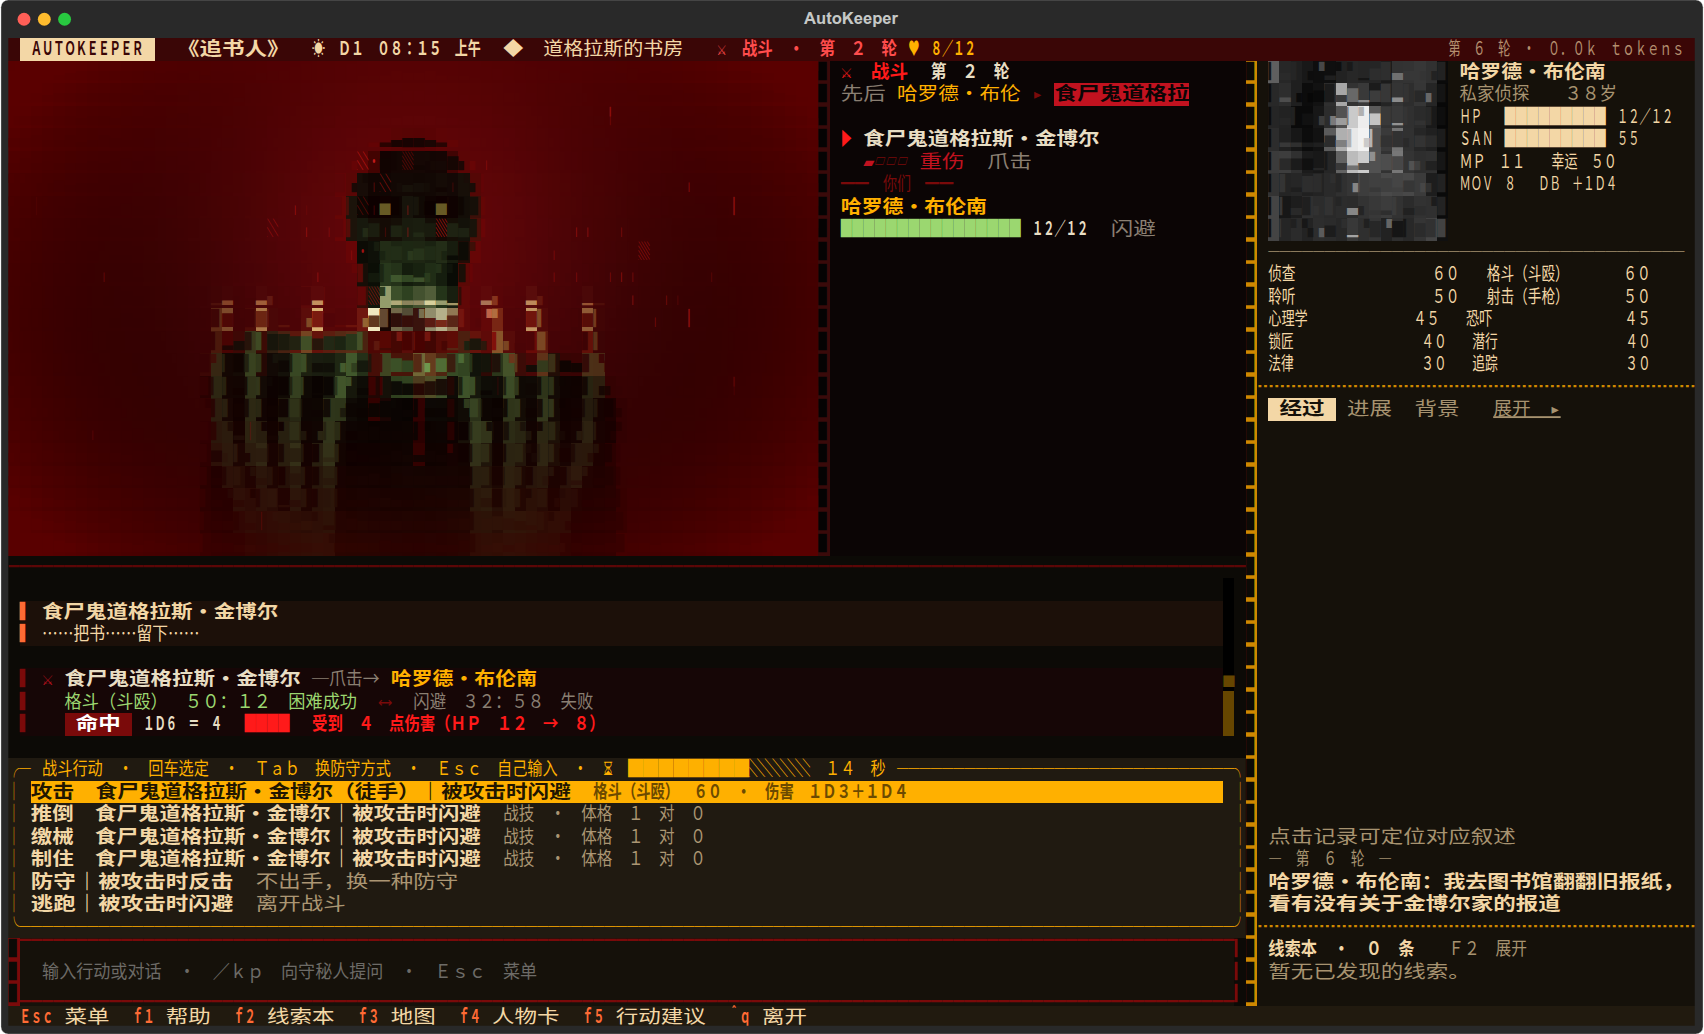
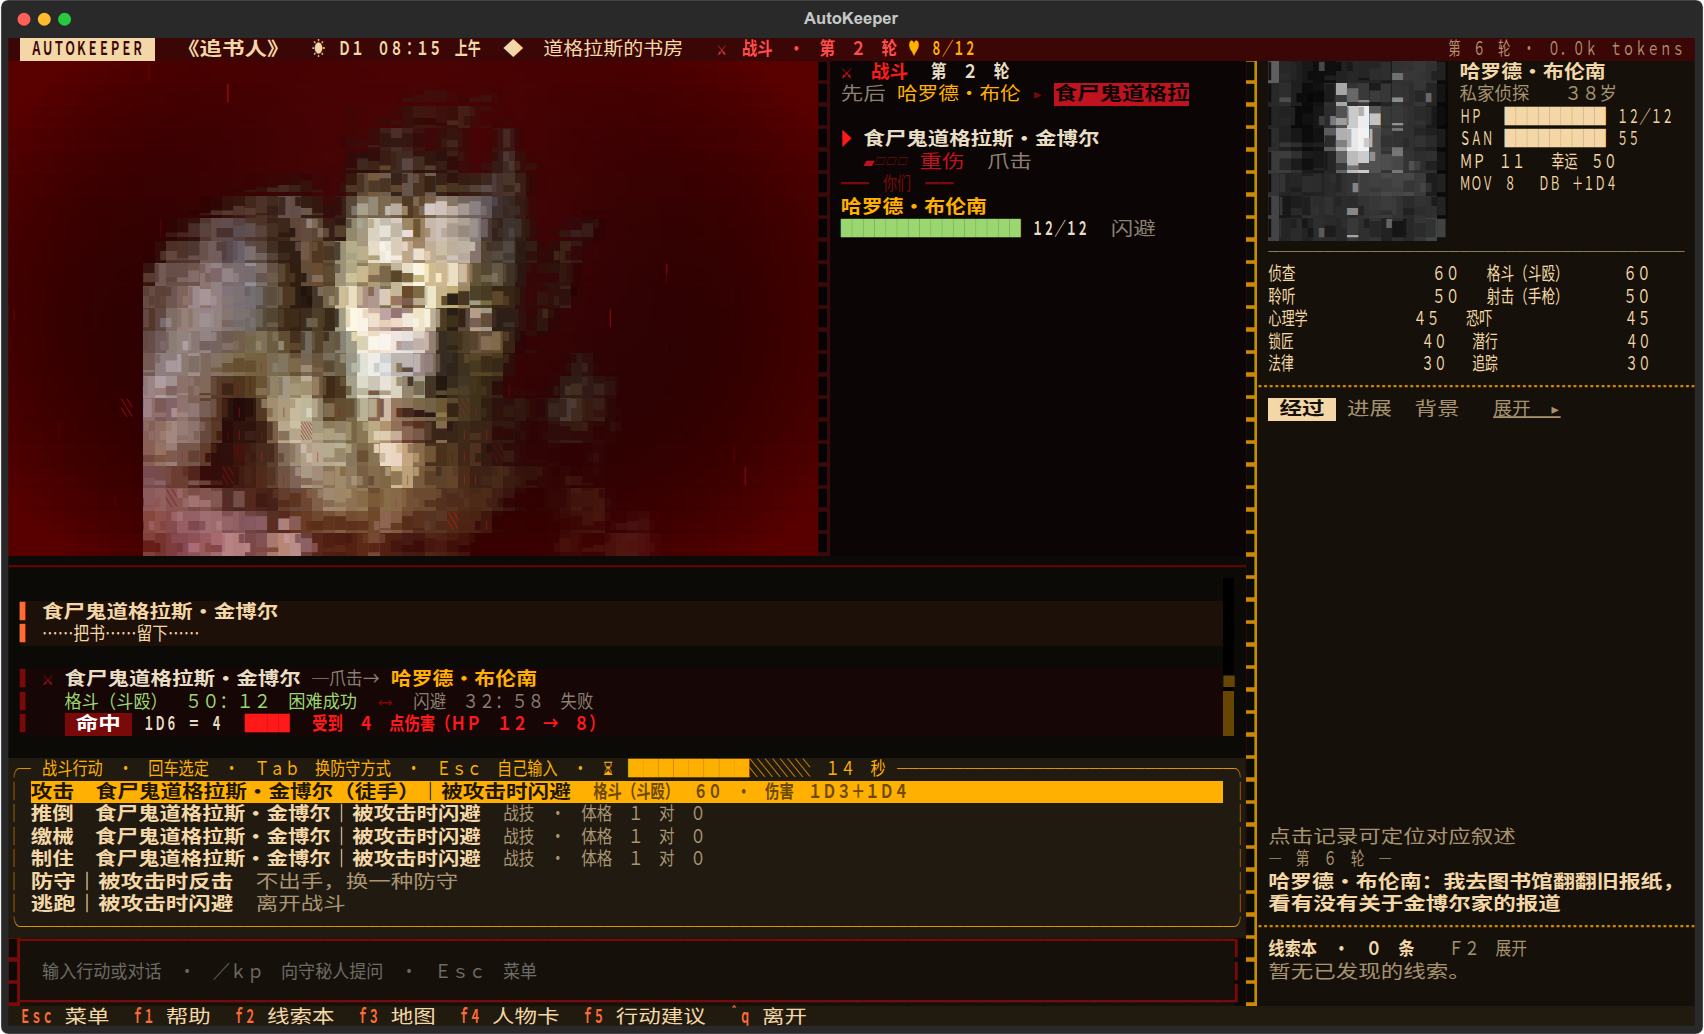
战斗：舞台上的对手放大到脸，黑底里的身形提亮；截图用本机已画好的怪物

Changed region(s): [[0.0622, 0.0928, 0.3732, 0.5571], [0.3421, 0.4642, 0.3732, 0.4952]]

diff --git a/src/autokeeper/imagery.py b/src/autokeeper/imagery.py
@@ -942,6 +942,8 @@ def staged(path: str, cols: int, rows: int, scene: str = "", near: float = 1.0) 
     else:
         figure = Image.open(picture_source(path)).convert("RGB")
         cut = silhouette(figure)
+    if cut is not None:  # lit low out of the black: brought up, or a few dozen cells keep only murk
+        figure = ImageEnhance.Brightness(ImageOps.autocontrast(figure, cutoff=0.5)).enhance(1.12)
     yy, xx = np.mgrid[0:h, 0:w].astype(float)
     if scene:
         scenery.ensure(scene)
@@ -954,11 +956,16 @@ def staged(path: str, cols: int, rows: int, scene: str = "", near: float = 1.0) 
         back = ImageEnhance.Brightness(back).enhance(0.2)
     else:
         glow = np.exp(-(((xx - w / 2) / (w * 0.32)) ** 2 + ((yy - h * 0.35) / (h * 0.55)) ** 2))
-        back = Image.fromarray(np.stack([glow * 96 + 6, glow * 6 + 2, glow * 8 + 3], axis=-1).astype(np.uint8))
-    tall = h * (0.4 + 0.75 * near)
+        back = Image.fromarray(np.stack([glow * 70 + 5, glow * 5 + 2, glow * 6 + 3], axis=-1).astype(np.uint8))
+    if scene:  # standing in the place: its lower part always below the frame, so no edge to it
+        tall = h * (0.4 + 0.75 * near)
+        top = h - tall * 0.86
+    else:  # face to face: its face (a third of the way down a head-and-shoulders picture) high in the middle
+        tall = h * (1.1 + 0.35 * near)
+        top = h * 0.4 - tall * 0.3
     size = (max(1, round(figure.width * tall / figure.height)), max(1, round(tall)))
     figure = figure.resize(size, Image.Resampling.LANCZOS)
-    x, y = (w - size[0]) // 2, round(h - tall * 0.86)  # its lower part always below the frame: no edge to it
+    x, y = (w - size[0]) // 2, round(top)
     if cut is not None:
         mask = cut.resize(size, Image.Resampling.BILINEAR)
     elif scene:

diff --git a/dev/screenshots.py b/dev/screenshots.py
@@ -328,6 +328,9 @@ async def main(names: list[str]) -> None:
     scratch = OUT / "data"
     shutil.rmtree(scratch, ignore_errors=True)
     paths.DATA, paths.USER_DIR = scratch, OUT / "user"  # nothing written to the real data folder
+    drawn = ROOT / "data" / "cache" / "creatures"
+    if drawn.is_dir():  # creatures an image model already drew here (engine/visuals.py): shown as a game shows them
+        shutil.copytree(drawn, paths.creatures("_").parent)
     for name in names or list(SHOTS):
         svg = await SHOTS[name]()
         print(png(svg))
